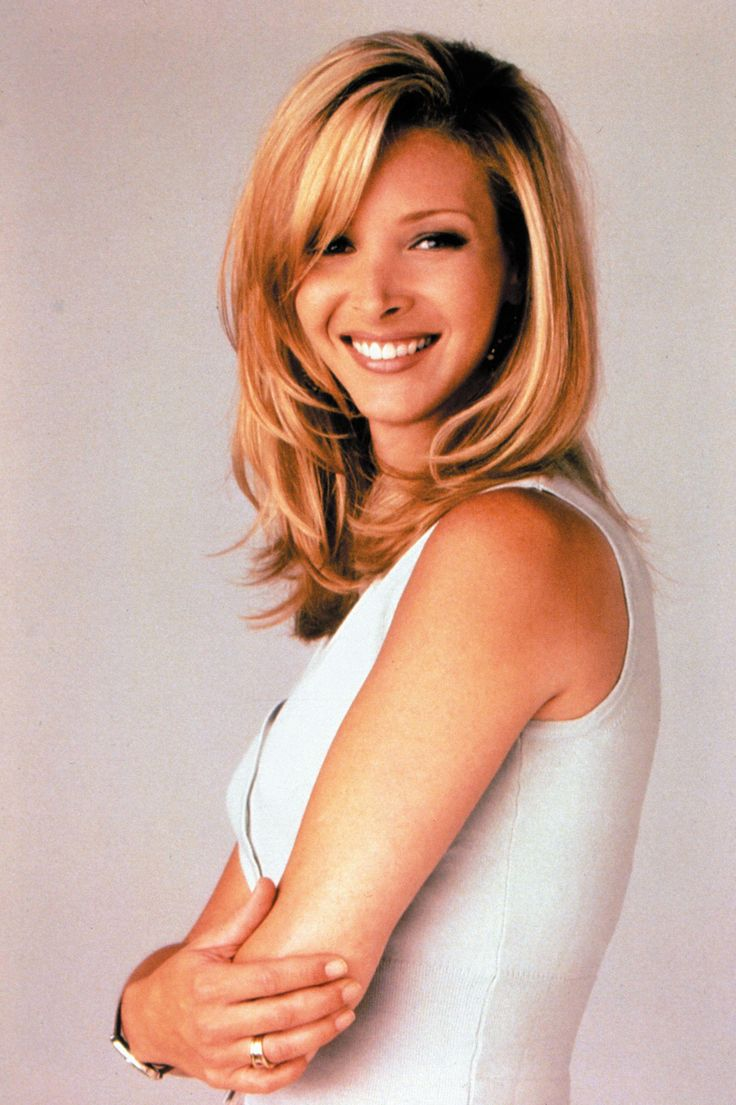
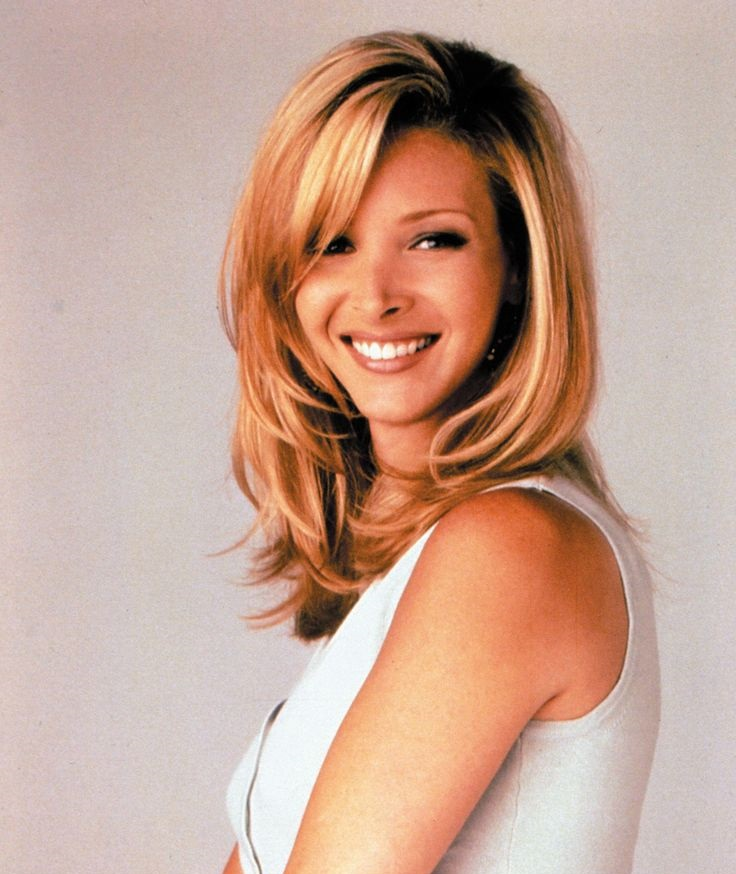
Changed sizes of images and put them in the centre

diff --git a/friends/friends.html b/friends/friends.html
@@ -50,7 +50,7 @@
                 </article>
             </div>
             <div class="image-container">
-                <img src="./images/rachel.jpeg" alt="One of the characters from the series Rachel Greene" width="100%" height="100%">
+                <img src="./images/rachel.jpeg" alt="One of the characters from the series Rachel Greene" width="75%" height="100%">
             </div>
         </section>
             <div class="second-container">
@@ -66,7 +66,7 @@
                     <q>Welcome to the real world. It sucks. You're gonna love it.</q>- Monica
                 </article>
             <div class="image-container">
-                <img src="./images/monica.jpg" alt="One of the characters from the series Monica Geller" width="100%" height="100%">
+                <img src="./images/monica.jpg" alt="One of the characters from the series Monica Geller" width="75%" height="100%">
             </div>                
             </div>
             <div class="second-container">
@@ -82,7 +82,7 @@
                     <q>Something is wrong with the left phalange.</q>- Phoebe
                 </article>
             <div class="image-container">
-                <img src="./images/phoebe.jpg" alt="One of the characters from the series Phoebe Buffay" width="100%" height="100%">
+                <img src="./images/phoebe.jpg" alt="One of the characters from the series Phoebe Buffay" width="75%" height="100%">
             </div>                
             </div>
             <div class="second-container">
@@ -98,7 +98,7 @@
                     <q>We were on a break!</q>- Ross
                 </article>
             <div class="image-container">
-                <img src="./images/ross.jpg" alt="One of the characters from the series Ross Geller" width="100%" height="100%">
+                <img src="./images/ross.jpg" alt="One of the characters from the series Ross Geller" width="75%" height="100%">
             </div>                
             </div>
             <div class="second-container">
@@ -114,7 +114,7 @@
                     <q>I'm not so good with the advice. Can I interest you in a sarcastic comment?</q>- Chandler
                 </article>
             <div class="image-container">
-                <img src="./images/chandler.jpg" alt="One of the characters from the series Chandler Bing" width="100%" height="100%">
+                <img src="./images/chandler.jpg" alt="One of the characters from the series Chandler Bing" width="75%" height="100%">
             </div>                
             </div>
             <div class="second-container">
@@ -130,7 +130,7 @@
                     <q>How you doin'?</q>- Joey
                 </article>
             <div class="image-container">
-                <img src="./images/joey.jpeg" alt="One of the characters from the series Joey Tribbiani" width="100%" height="100%">
+                <img src="./images/joey.jpeg" alt="One of the characters from the series Joey Tribbiani" width="75%" height="100%">
             </div>
             </div>
         </section>

diff --git a/friends/css/friends.css b/friends/css/friends.css
@@ -94,6 +94,11 @@ q {
 .image-container {
     margin: 30px 0;
 }
+.img-container, img {
+    display: block;
+    margin-left: auto;
+    margin-right: auto;
+}
 .bottom-navigation {
     padding: 30px;
     display: flex;
